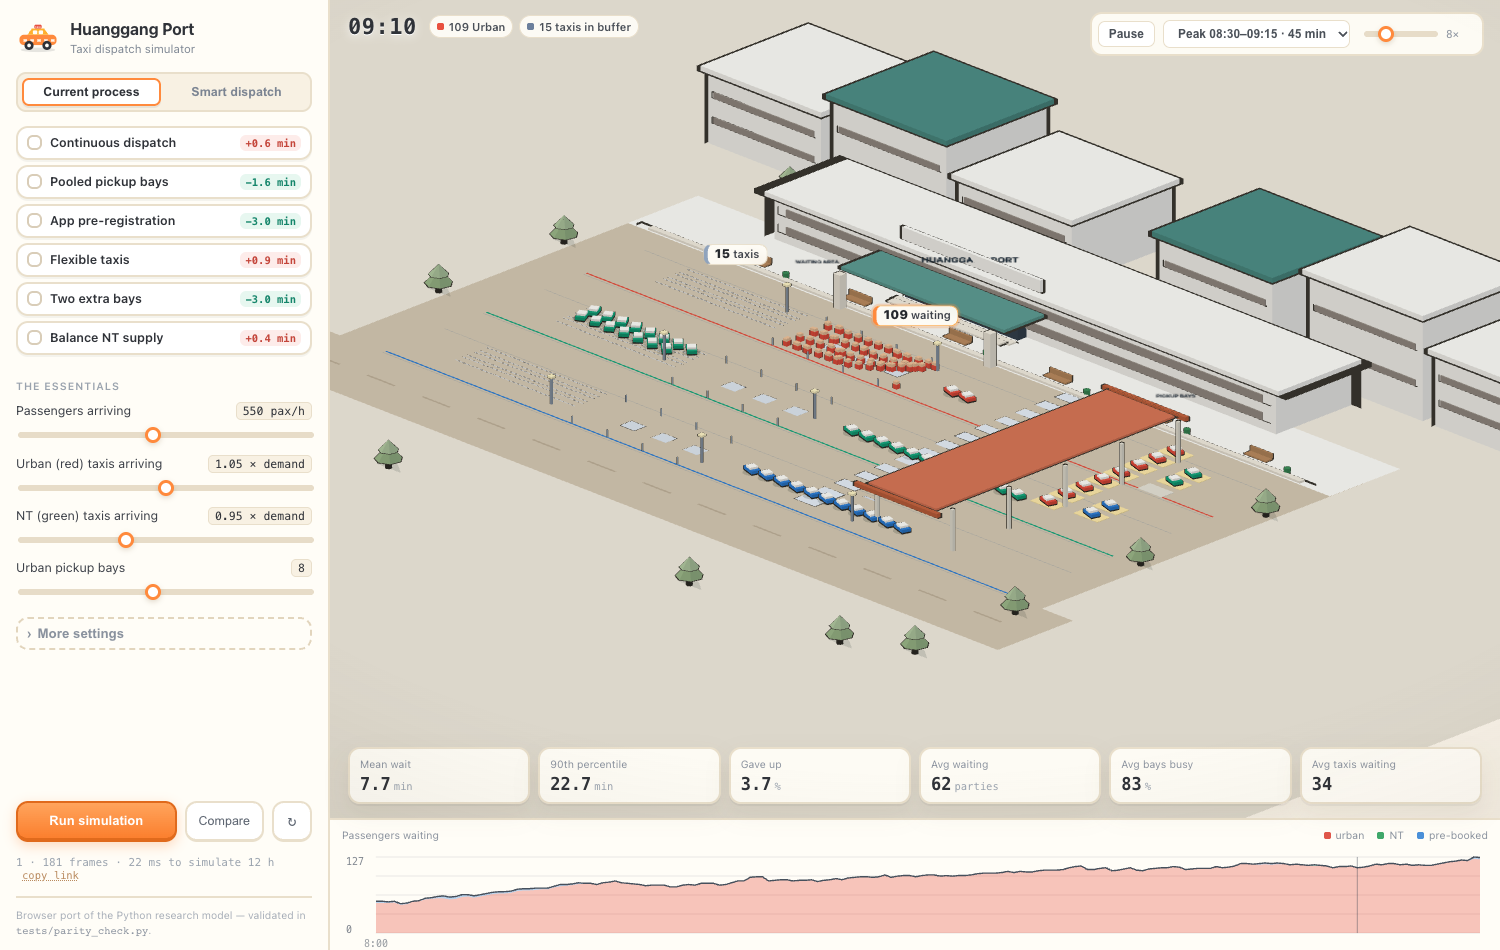
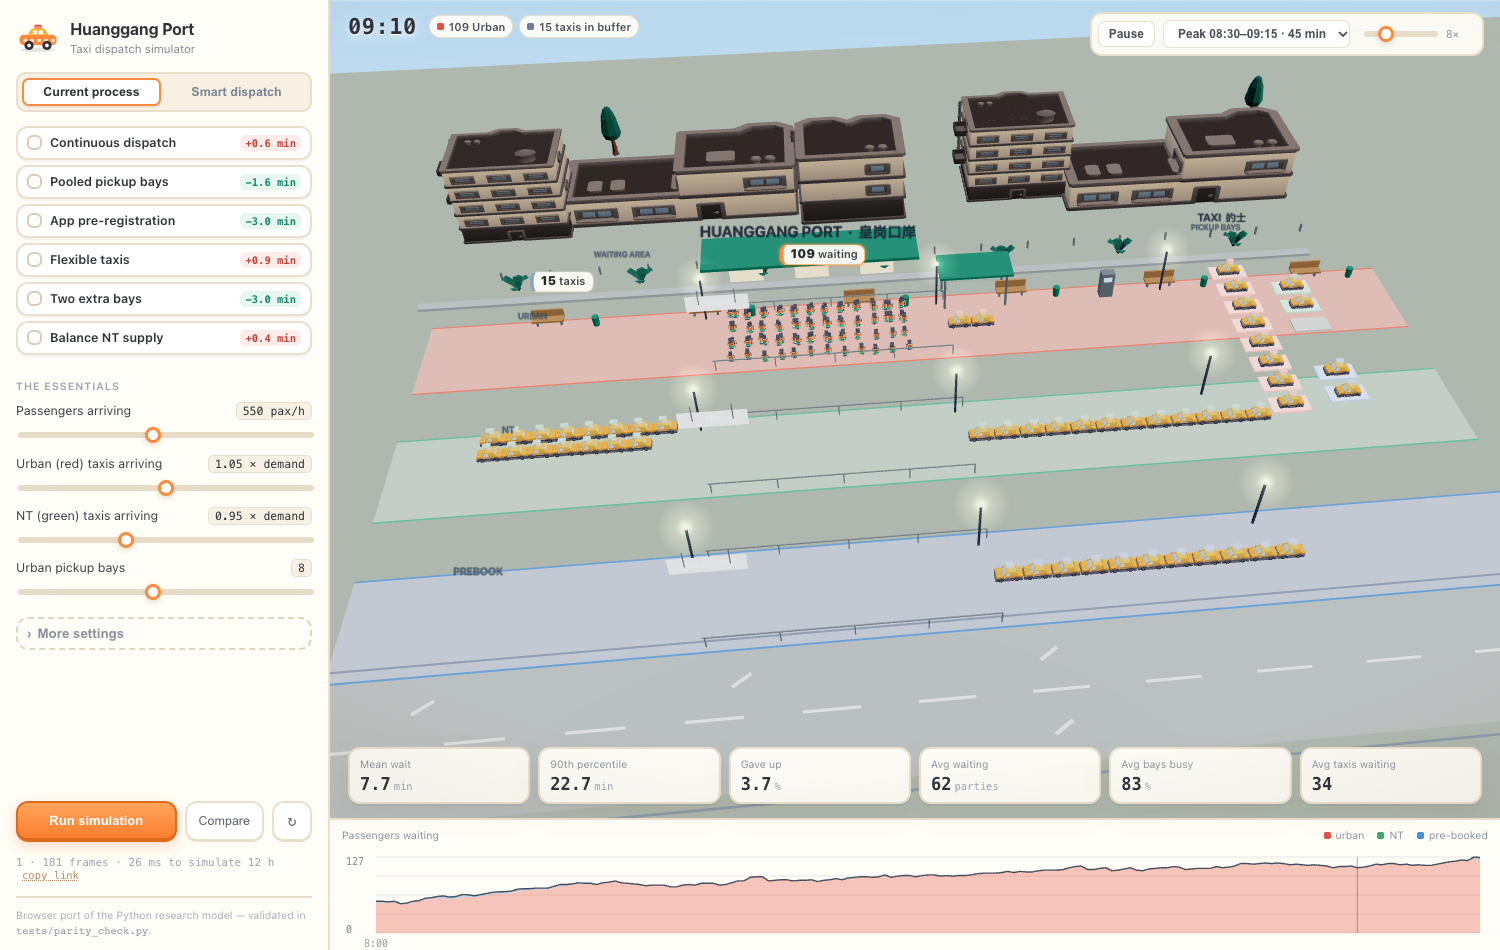
Restore the scene you liked: sky, modelled taxi, walking characters
Restoring 7e6714e needed both halves: the scene AND the asset loader that
feeds it (taxi.glb + character-a/b/c). Without the loader the scene fell back
to primitives, which is why the restore looked wrong at first.

diff --git a/web/js/app.js b/web/js/app.js
@@ -887,18 +887,24 @@ function setCompare(on) {
 async function loadKitAssets() {
   try {
     const base = "./models/";
-    const [b1, b2, b3, tree, bush] = await Promise.all([
+    const [b1, b2, b3, tree, bush, taxi, pa, pb, pc] = await Promise.all([
       prepare(base + "city/building-l.glb", { targetHeight: 5.2 }),
       prepare(base + "city/building-e.glb", { targetHeight: 3.4 }),
       prepare(base + "city/building-a.glb", { targetHeight: 4.4 }),
       prepare(base + "nature/tree_cone.glb", { targetHeight: 1.9 }),
       prepare(base + "nature/plant_bush.glb", { targetHeight: 0.55 }),
+      prepare(base + "car/taxi.glb", { targetLength: 1.2, rotateY: -Math.PI / 2 }),
+      prepare(base + "chars/character-a.glb", { targetHeight: 0.62 }),
+      prepare(base + "chars/character-b.glb", { targetHeight: 0.62 }),
+      prepare(base + "chars/character-c.glb", { targetHeight: 0.62 }),
     ]);
 
     scene.assets = {
       buildings: [b1, b2, b3],
       trees: [tree],
       bushes: [bush],
+      taxi,
+      people: [pa, pb, pc],
     };
 
     // rebuild the static world with the models in place
